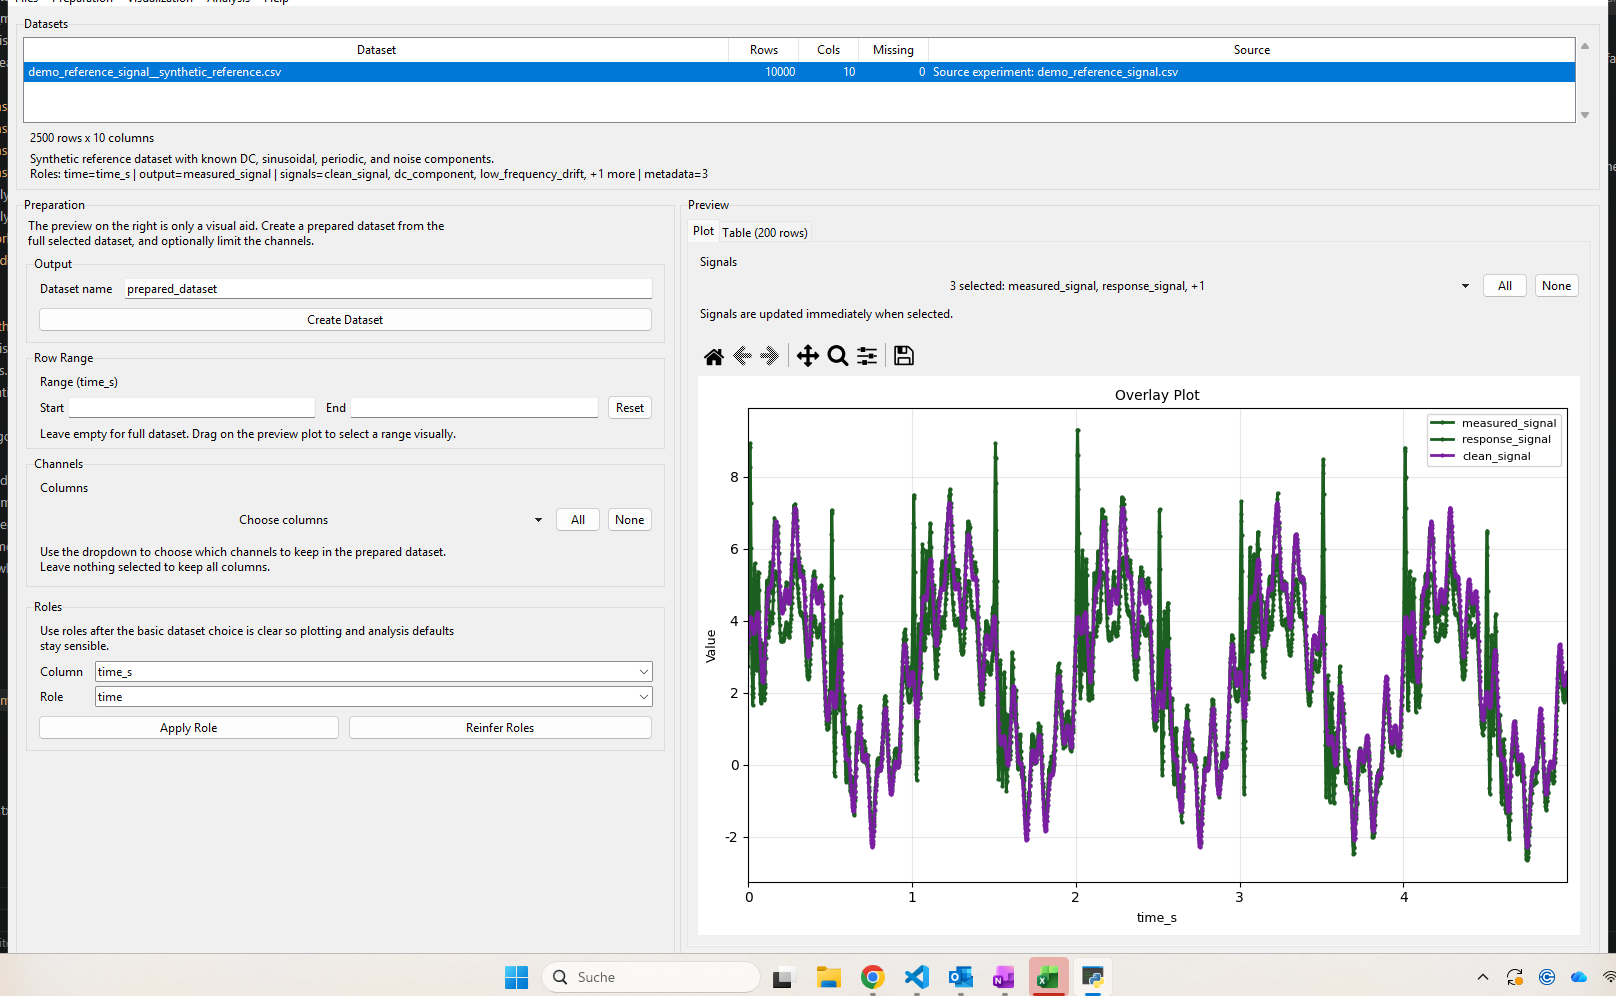
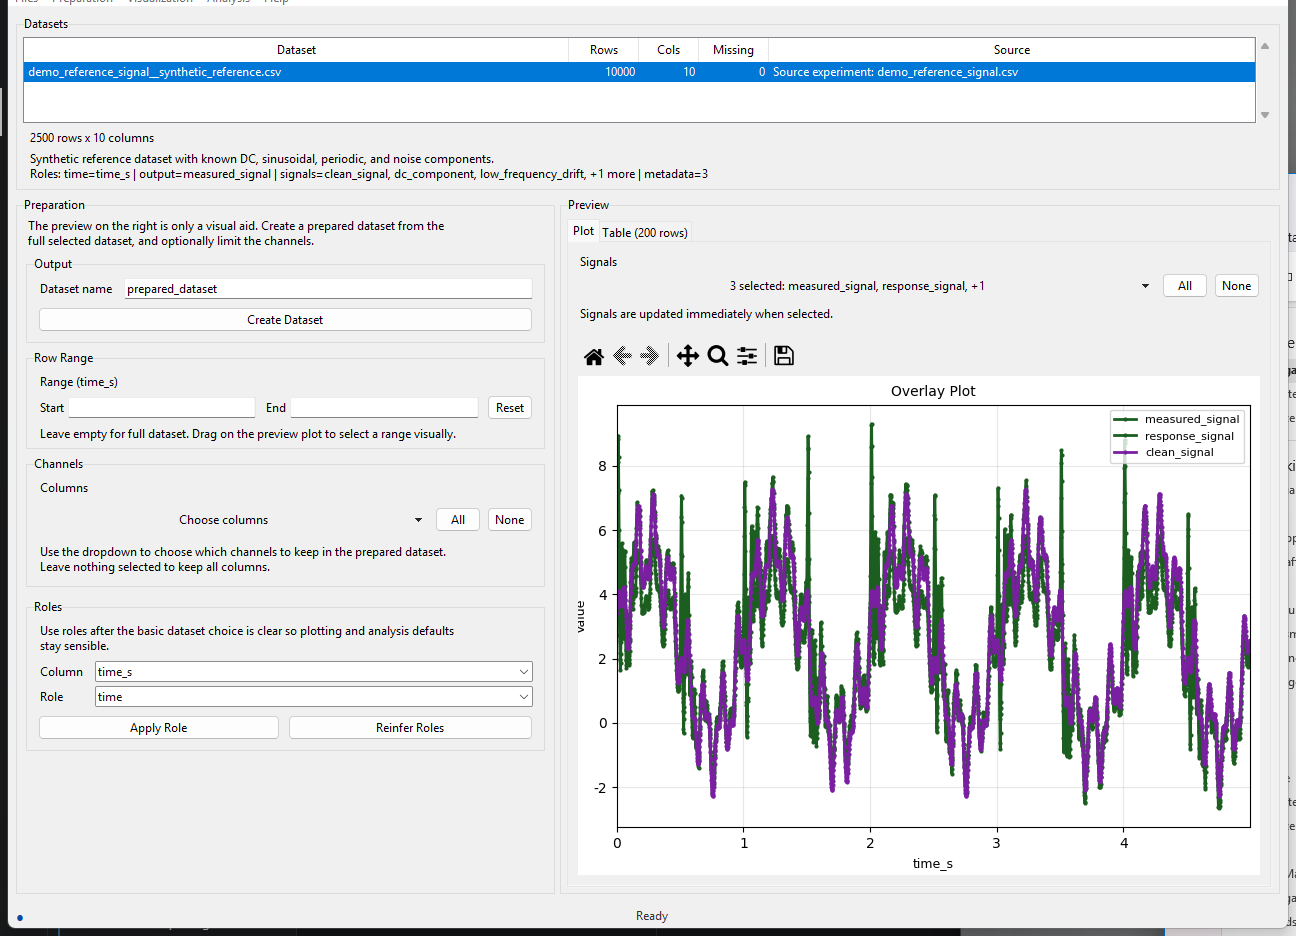
Update analysis docs and screenshots

diff --git a/scripts/capture_app_screenshots.py b/scripts/capture_app_screenshots.py
@@ -21,6 +21,8 @@ if str(PROJECT_ROOT) not in sys.path:
 
 from Source.datapreparation_app.app import DataPreparationApp
 from Source.shared.demo_catalog import CYCLE_VALIDATION_DEMO, SPECTRAL_REFERENCE_DEMO
+from Source.shared.plot_options import PlotOptions
+from Source.shared.plot_utils import create_plot_figure
 
 try:
     from PIL import Image, ImageDraw, ImageGrab
@@ -33,6 +35,15 @@ except ImportError as error:  # pragma: no cover - runtime dependency check
 SPECTRAL_SCREENSHOT_MAX_ROWS = 2500
 CYCLE_SCREENSHOT_MAX_ROWS = 1800
 CYCLE_SCREENSHOT_MAX_CYCLES = 12
+
+
+def _focus_capture_window(window: tk.Misc, root: tk.Tk) -> None:
+    """Bring one window to the foreground and keep it topmost briefly for capture."""
+
+    window.lift()
+    window.focus_force()
+    window.attributes("-topmost", True)
+    _pump_ui(root, 0.12)
 
 
 def _pump_ui(root: tk.Tk, seconds: float = 0.2) -> None:
@@ -48,24 +59,62 @@ def _pump_ui(root: tk.Tk, seconds: float = 0.2) -> None:
 def _capture_widget(widget: tk.Misc, output_path: Path, padding: int = 8) -> None:
     """Capture one Tk widget rectangle and save it as a PNG image."""
 
-    widget.update_idletasks()
-    x0 = widget.winfo_rootx() - padding
-    y0 = widget.winfo_rooty() - padding
-    x1 = widget.winfo_rootx() + widget.winfo_width() + padding
-    y1 = widget.winfo_rooty() + widget.winfo_height() + padding
-    image = ImageGrab.grab(bbox=(x0, y0, x1, y1), all_screens=True)
+    image = _grab_widget_image(widget, padding=padding)
     image.save(output_path)
 
 
 def _grab_widget_image(widget: tk.Misc, padding: int = 8) -> Image.Image:
     """Capture one Tk widget rectangle and return the Pillow image."""
 
+    toplevel = widget.winfo_toplevel()
+    root = widget._root()  # tkinter internals: returns the Tk root for this widget
+    _focus_capture_window(toplevel, root)
     widget.update_idletasks()
     x0 = widget.winfo_rootx() - padding
     y0 = widget.winfo_rooty() - padding
     x1 = widget.winfo_rootx() + widget.winfo_width() + padding
     y1 = widget.winfo_rooty() + widget.winfo_height() + padding
     return ImageGrab.grab(bbox=(x0, y0, x1, y1), all_screens=True)
+
+
+def _reset_workspace_for_demo_capture(root: tk.Tk, workspace) -> None:
+    """Reset the analysis workspace to the original demo frame before each method capture."""
+
+    workspace._reset_working_data()
+    _pump_ui(root, 0.25)
+
+
+def _set_plot_columns_for_capture(root: tk.Tk, workspace, selected_columns: list[str]) -> None:
+    """Force the live plot to show specific columns for demonstrative algorithm captures."""
+
+    available_columns = set(str(column) for column in workspace.session.working_frame.columns)
+    resolved_columns = [column for column in selected_columns if column in available_columns]
+    if not resolved_columns:
+        return
+
+    workspace.plot_x_var.set("Index")
+    workspace.plot_subplots_var.set(True)
+    numeric_columns = [str(column) for column in workspace.session.working_frame.select_dtypes(include=["number"]).columns]
+    workspace._set_plot_y_column_options(numeric_columns, resolved_columns)
+    workspace.session.selected_x_column = "Index"
+    workspace.session.selected_y_columns = resolved_columns
+    workspace.session.use_subplots = True
+
+    # Render the exact columns we want to demonstrate, independent of transient UI menu state.
+    plot_options = PlotOptions(
+        cols_to_plot=resolved_columns,
+        xcol="Index",
+        use_subplots=True,
+        y_label="Value",
+    )
+    figure = create_plot_figure(
+        plot_options,
+        [workspace.session.source_path],
+        {workspace.session.source_path: workspace.session.working_frame},
+        column_roles=workspace.column_roles,
+    )
+    workspace._render_plot_figure(figure)
+    _pump_ui(root, 0.2)
 
 
 def _build_contact_sheet(
@@ -260,8 +309,15 @@ def _capture_filtering_sheet(root: tk.Tk, workspace, output_path: Path) -> None:
 
     entries: list[tuple[str, Image.Image]] = []
 
+    _reset_workspace_for_demo_capture(root, workspace)
     workspace.notebook.select(workspace.filter_tab)
     _select_notebook_tab_by_prefix(filter_subtabs, "Simple Filtering")
+    workspace.filter_min_var.set("0.15")
+    workspace.filter_max_var.set("")
+    output_column = "measured_signal_simple_demo"
+    workspace.filter_output_name_var.set(output_column)
+    workspace._apply_filter()
+    _set_plot_columns_for_capture(root, workspace, ["measured_signal", output_column])
     _pump_ui(root, 0.25)
     entries.append(("simple_filter", _grab_widget_image(workspace.window)))
 
@@ -275,14 +331,31 @@ def _capture_filtering_sheet(root: tk.Tk, workspace, output_path: Path) -> None:
         "butterworth_bandpass",
     ]
     for operation in signal_ops:
+        _reset_workspace_for_demo_capture(root, workspace)
+        _set_active_column_if_available(workspace, "measured_signal")
         workspace.notebook.select(workspace.filter_tab)
         _select_notebook_tab_by_prefix(filter_subtabs, "Signal Processing")
         workspace.signal_filter_operation_var.set(operation)
+        output_column = f"measured_signal_{operation}_demo"
+        workspace.signal_filter_name_var.set(output_column)
+        workspace.signal_filter_spacing_var.set("0.002")
+        workspace.signal_filter_window_var.set("21")
+        workspace.signal_filter_alpha_var.set("0.2")
+        workspace.signal_filter_cutoff_var.set("10.0")
+        workspace.signal_filter_cutoff_high_var.set("40.0")
+        workspace.signal_filter_order_var.set("4")
+        workspace._apply_signal_filter()
+        _set_plot_columns_for_capture(root, workspace, ["measured_signal", output_column])
         _pump_ui(root, 0.25)
         entries.append((operation, _grab_widget_image(workspace.window)))
 
+    _reset_workspace_for_demo_capture(root, workspace)
     workspace.notebook.select(workspace.filter_tab)
     _select_notebook_tab_by_prefix(filter_subtabs, "Resample")
+    workspace.resample_time_var.set("time_s")
+    workspace.resample_spacing_var.set("0.001")
+    workspace._apply_resample()
+    _set_plot_columns_for_capture(root, workspace, ["measured_signal", "clean_signal"])
     _pump_ui(root, 0.25)
     entries.append(("resample_to_uniform", _grab_widget_image(workspace.window)))
 
@@ -311,8 +384,16 @@ def _capture_derived_sheet(root: tk.Tk, workspace, output_path: Path) -> None:
     ]
     entries: list[tuple[str, Image.Image]] = []
     for operation in operations:
+        _reset_workspace_for_demo_capture(root, workspace)
+        _set_active_column_if_available(workspace, "measured_signal")
         workspace.notebook.select(workspace.derived_tab)
         workspace.derived_operation_var.set(operation)
+        output_column = f"measured_signal_{operation}_demo"
+        workspace.derived_name_var.set(output_column)
+        workspace.derived_reference_var.set("time_s")
+        workspace.derived_window_var.set("21")
+        workspace._apply_derived_signal()
+        _set_plot_columns_for_capture(root, workspace, ["measured_signal", output_column])
         _pump_ui(root, 0.25)
         entries.append((operation, _grab_widget_image(workspace.window)))
 
@@ -325,6 +406,7 @@ def _capture_derived_sheet(root: tk.Tk, workspace, output_path: Path) -> None:
 
 
 def _capture_frequency_sheet(root: tk.Tk, workspace, output_path: Path) -> None:
+    _reset_workspace_for_demo_capture(root, workspace)
     workspace.notebook.select(workspace.frequency_tab)
     _set_active_column_if_available(workspace, "measured_signal")
     _set_frequency_reference_to_time_column(workspace)
@@ -355,6 +437,7 @@ def _capture_frequency_sheet(root: tk.Tk, workspace, output_path: Path) -> None:
 
 
 def _capture_cycles_sheet(root: tk.Tk, workspace, output_path: Path) -> None:
+    _reset_workspace_for_demo_capture(root, workspace)
     workspace.notebook.select(workspace.cycles_tab)
     _set_active_column_if_available(workspace, "cycle_process")
     if workspace.cycles_reference_combo is not None:
@@ -370,20 +453,29 @@ def _capture_cycles_sheet(root: tk.Tk, workspace, output_path: Path) -> None:
     ]
     entries: list[tuple[str, Image.Image]] = []
     for mode in modes:
+        _reset_workspace_for_demo_capture(root, workspace)
         workspace.notebook.select(workspace.cycles_tab)
         workspace.cycle_mode_var.set(mode)
+        workspace.cycle_max_cycles_var.set("")
         if mode == "rising_edge":
             _set_active_column_if_available(workspace, "cycle_process")
             if workspace.cycles_reference_combo is not None:
-                workspace.cycle_reference_var.set("trigger_pulse")
+                workspace.cycle_reference_var.set("cycle_process")
+            workspace.cycle_threshold_var.set("4.5")
+            workspace.cycle_length_var.set("120")
         elif mode == "zero_crossing":
             _set_active_column_if_available(workspace, "cycle_process")
             if workspace.cycles_reference_combo is not None:
                 workspace.cycle_reference_var.set("cycle_reference_zero")
+            workspace.cycle_length_var.set("120")
         elif mode == "peak":
             _set_active_column_if_available(workspace, "cycle_process")
             if workspace.cycles_reference_combo is not None:
                 workspace.cycle_reference_var.set("cycle_process")
+            workspace.cycle_prominence_var.set("0.2")
+            workspace.cycle_length_var.set("120")
+        else:
+            workspace.cycle_length_var.set("144")
         _pump_ui(root, 0.2)
         workspace._compute_cycle_analysis()
         _pump_ui(root, 0.6)
@@ -398,6 +490,7 @@ def _capture_cycles_sheet(root: tk.Tk, workspace, output_path: Path) -> None:
 
 
 def _capture_cycles_workspace_raw(root: tk.Tk, workspace, output_path: Path) -> None:
+    _reset_workspace_for_demo_capture(root, workspace)
     workspace.notebook.select(workspace.cycles_tab)
     _set_active_column_if_available(workspace, "cycle_process")
     _set_active_column_if_available(workspace, "trigger_pulse")
@@ -476,11 +569,9 @@ def generate_screenshots(output_dir: Path) -> list[Path]:
         root = tk.Tk()
         _install_tk_exception_filter(root)
         app = DataPreparationApp(root)
-        root.geometry("1600x980")
-        root.lift()
-        root.attributes("-topmost", True)
+        root.geometry("1280x920+0+0")
+        _focus_capture_window(root, root)
         _pump_ui(root, 0.4)
-        root.attributes("-topmost", False)
 
         dataset_path = app._load_demo_dataset(SPECTRAL_REFERENCE_DEMO.key, show_message=True)
         _shorten_dataset_for_screenshots(
@@ -499,11 +590,9 @@ def generate_screenshots(output_dir: Path) -> list[Path]:
         if not app._analysis_workspaces:
             raise RuntimeError("Analysis workspace did not open")
         workspace = app._analysis_workspaces[-1]
-        workspace.window.geometry("1500x940")
-        workspace.window.lift()
-        workspace.window.attributes("-topmost", True)
+        workspace.window.geometry("1220x900+0+0")
+        _focus_capture_window(workspace.window, root)
         _pump_ui(root, 0.5)
-        workspace.window.attributes("-topmost", False)
 
         filtering_sheet_path = output_dir / "algorithms-filtering.png"
         _capture_filtering_sheet(root, workspace, filtering_sheet_path)
@@ -536,11 +625,9 @@ def generate_screenshots(output_dir: Path) -> list[Path]:
         if not app._analysis_workspaces:
             raise RuntimeError("Cycle analysis workspace did not open")
         workspace = app._analysis_workspaces[-1]
-        workspace.window.geometry("1500x940")
-        workspace.window.lift()
-        workspace.window.attributes("-topmost", True)
+        workspace.window.geometry("900x900+0+0")
+        _focus_capture_window(workspace.window, root)
         _pump_ui(root, 0.5)
-        workspace.window.attributes("-topmost", False)
 
         raw_cycles_path = output_dir / "cycles-workspace-raw.png"
         _capture_cycles_workspace_raw(root, workspace, raw_cycles_path)
@@ -564,7 +651,7 @@ def _parse_args() -> argparse.Namespace:
     parser.add_argument(
         "--output-dir",
         type=Path,
-        default=Path("Docs/images/overview"),
+        default=Path("docs/images/overview"),
         help="Directory where screenshot PNG files are written",
     )
     return parser.parse_args()

diff --git a/tests/test_analysis_rules.py b/tests/test_analysis_rules.py
@@ -231,7 +231,7 @@ class TestFrameVisibilityFields:
         rule = get_rule("signal_filter", "butterworth_bandpass")
         assert "signal_filter_butterworth_frame" in rule.show_frames
         assert "signal_filter_bandpass_frame" in rule.show_frames
-        assert "signal_filter_bandpass_frame" in rule.hide_frames
+        assert "signal_filter_bandpass_frame" not in rule.hide_frames
 
     def test_exponential_smoothing_shows_alpha_frame(self):
         rule = get_rule("signal_filter", "exponential_smoothing")

diff --git a/Source/analysis_app/rules.py b/Source/analysis_app/rules.py
@@ -159,7 +159,7 @@ SIGNAL_FILTER_RULES: dict[str, ParameterRule] = {
         domain="signal_filter",
         method_id="butterworth_bandpass",
         show_frames=_BANDPASS_FRAMES,
-        hide_frames=_BUTTERWORTH_HIDE,
+        hide_frames=_BANDPASS_HIDE,
         required_non_empty=(),
         required_positive=("cutoff_hz", "cutoff_hz_high", "sample_spacing", "filter_order"),
         hint="Set low and high cutoff frequencies, sample spacing, and filter order for zero-phase BP.",

diff --git a/docs/technical-overview.md b/docs/technical-overview.md
@@ -19,7 +19,7 @@ The project is organized around:
 - `Source/analysis_app/`: filtering, derived signals, frequency analysis, cycle analysis, stats, export
 - `Source/data_ops/`: pure operation modules (`signals`, `spectral`, `cycles`, `frame_ops`, `summary`, `filtering`, `io_ops`, `models`)
 - `Source/shared/`: shared plot contracts/builders, embedded figure lifecycle, role/display helpers, notifications, docs links
-- `Tests/`: unit/app-layer/integration tests
+- `tests/`: unit/app-layer/integration tests
 - `.github/workflows/tests.yml`: CI test workflow and hard architecture boundary gate
 
 ## Layer Responsibilities
@@ -88,7 +88,7 @@ Depth 2 owns Tk canvas/window behavior, not algorithmic analysis.
 
 ## Import Boundary Policy
 
-The repository now enforces architecture boundaries via `Tests/test_import_boundaries.py` and CI.
+The repository now enforces architecture boundaries via `tests/test_import_boundaries.py` and CI.
 
 ### Required Rules
 
@@ -107,11 +107,11 @@ The repository now enforces architecture boundaries via `Tests/test_import_bound
 
 ## Testing and CI
 
-- `Tests/test_plot_utils.py`: shared plotting contract coverage
-- `Tests/test_base_app_shell.py`: embedded figure lifecycle behavior
-- `Tests/test_analysis_handlers.py`: analysis orchestration behavior
-- `Tests/test_workflows_integration.py`: preparation-to-analysis workflow coverage
-- `Tests/test_import_boundaries.py`: hard architecture boundary checks
+- `tests/test_plot_utils.py`: shared plotting contract coverage
+- `tests/test_base_app_shell.py`: embedded figure lifecycle behavior
+- `tests/test_analysis_handlers.py`: analysis orchestration behavior
+- `tests/test_workflows_integration.py`: preparation-to-analysis workflow coverage
+- `tests/test_import_boundaries.py`: hard architecture boundary checks
 
 CI order in `.github/workflows/tests.yml`:
 

diff --git a/docs/analysis-methods.md b/docs/analysis-methods.md
@@ -173,7 +173,7 @@ The cycle tab supports four detection modes:
 
 - `fixed_length`: split the active signal into equal row blocks of a given size.
 - `rising_edge`: detect cycle boundaries from rising threshold crossings on a reference signal.
-- `zero_crossing`: detect cycles between zero-crossing points on a reference signal, with direction options: `rising`, `falling`, or `both`.
+- `zero_crossing`: detect cycles between rising zero-crossing points on a reference signal.
 - `peak`: detect cycles between successive peaks of a reference signal using `scipy.signal.find_peaks`. Supports a `prominence` filter to ignore minor peaks.
 
 All modes produce:
@@ -188,7 +188,7 @@ Reproducible demo examples:
 
 - On the spectral reference demo, use `fixed_length` with `cycle_length = 250`. The built-in impact train repeats every `0.5 s` at `500 Hz`, so `250` rows is a natural first check.
 - On the same demo, use `rising_edge` with `Reference = impact_marker`, `Threshold = 0.5`, and `Cycle length = 200` as the minimum accepted cycle size.
-- On the same demo, use `zero_crossing` with `Reference = clean_signal`, `Direction = rising`, and a minimum cycle length to segment the underlying oscillation.
+- On the same demo, use `zero_crossing` with `Reference = clean_signal` and a minimum cycle length to segment the underlying oscillation.
 - On the same demo, use `peak` with `Reference = impact_marker` and a `prominence` value to segment the response around successive significant peaks.
 
 For the formal note on the current cycle workflow, see [latex/cycle_analysis_example.pdf](latex/cycle_analysis_example.pdf).

diff --git a/docs/glossary.md b/docs/glossary.md
@@ -14,7 +14,7 @@ Use this page as a short lookup. The fuller explanations live in [user-guide.md]
 - `Spectrogram`: a time-frequency representation produced by short-time FFT, showing how spectral content evolves over time as a heatmap.
 - `Butterworth filter`: a maximally-flat magnitude-response IIR filter. EvalData uses zero-phase `sosfiltfilt` (forward-backward filtering) for lowpass, highpass, and bandpass variants.
 - `Prominence`: a peak-detection parameter from `scipy.signal.find_peaks` that measures how much a peak stands out relative to its surroundings; used in the `peak` cycle-detection mode to ignore minor peaks.
-- `Zero-crossing`: a point where a signal changes sign; the `zero_crossing` cycle-detection mode uses these points as cycle boundaries with configurable direction (rising, falling, or both).
+- `Zero-crossing`: a point where a signal changes sign; the current `zero_crossing` cycle-detection mode uses rising zero-crossing points as cycle boundaries.
 - `Hilbert envelope`: the amplitude envelope of a signal computed via the analytic signal (Hilbert transform). Useful for extracting the modulation envelope of narrowband or oscillatory signals.
 - `RMS envelope`: a rolling root-mean-square value computed over a centered window, tracking the instantaneous energy of a signal.
 - `Detrend`: removal of a polynomial trend (order 1–3) from a signal by least-squares fit and subtraction.

diff --git a/SCOPE.md b/SCOPE.md
@@ -65,11 +65,11 @@ This application is designed to analyze, visualize, and report on data from engi
 - Statistical analysis (mean, median, std, correlation, etc.)
 - Summary statistics and report generation
 - Interactive plotting (time series, histograms, scatter plots, etc.)
-- Automated batch plotting and figure export (PNG, PDF, SVG)
+- Automated batch plotting and figure export (PNG, PDF, SVG) *(planned; current implementation exports CSV data views and generated docs images)*
 - Export of results (tables, figures, processed data)
-- Configurable analysis workflows (via config files or UI)
-- Logging of analysis steps and parameters for reproducibility
-- Version-controlled outputs (results linked to code and config version)
+- Configurable analysis workflows (via config files or UI) *(planned; current workflow is UI-driven)*
+- Logging of analysis steps and parameters for reproducibility *(planned; current implementation focuses on deterministic demo paths and test coverage)*
+- Version-controlled outputs (results linked to code and config version) *(planned; current reproducibility is primarily repository-level versioning plus demo/test assets)*
 
 ### Extensibility
 - Modular architecture for adding new analysis modules

diff --git a/docs/screenshots.md b/docs/screenshots.md
@@ -58,4 +58,5 @@ The script writes these stable names by default:
 - Cycle-focused screenshots should use the `Cycle Validation Drift Signal` demo dataset.
 - Frequency screenshots should continue to use the spectral reference demo dataset.
 - Capture the app at a readable scale and avoid personal file paths when practical.
+- For algorithm contact sheets, each method tile should show the selected option and a visible output effect (plot, table, or metrics) after applying that method.
 - After images are added, the README can embed the most representative ones directly.

diff --git a/docs/cycle-analysis-guide.md b/docs/cycle-analysis-guide.md
@@ -30,7 +30,8 @@ Use this area to define cycle boundaries and quality filtering:
 - `Mode`: `fixed_length`, `rising_edge`, `zero_crossing`, `peak`
 - Detection parameters:
   - `Cycle length` for `fixed_length`
-  - `Reference` + `Threshold` for `rising_edge` and `zero_crossing`
+  - `Reference` + `Threshold` for `rising_edge`
+  - `Reference` for `zero_crossing` (rising crossings)
   - `Reference` + `Prominence` for `peak`
 - `Analyze Cycles`: runs segmentation + metrics.
 - Exclusion workflow buttons:
